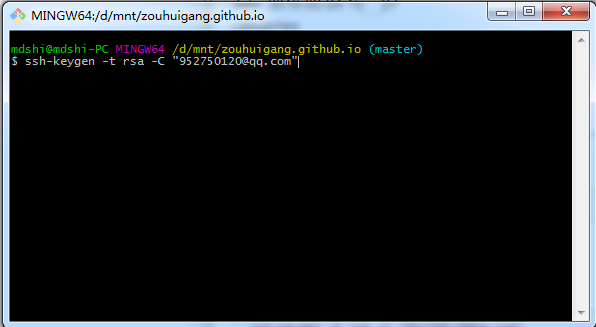
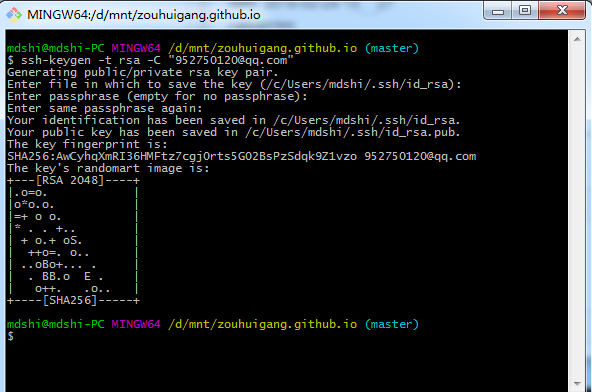
更新内容

Changed region(s): [[0.0, 0.0, 1.0, 1.0]]

diff --git a/content/git/push.md b/content/git/push.md
@@ -18,7 +18,7 @@ hugo的一些md参数
 ssh提交git，避免每次bat脚本运行都要输入用户名和密码
 
 
-1.生成ssh
+### 1.生成ssh
 
 	 ssh-keygen -t rsa -C "952750120@qq.com"
 
@@ -26,3 +26,19 @@ ssh提交git，避免每次bat脚本运行都要输入用户名和密码
 ![images](../images/20180224150632.png)
 
 一直按回车即可。
+
+可以看出，ssh被保存在C:\Users\mdshi\.ssh目录下。
+
+![images](../images/20180224153047.png)
+
+
+### 2.把在本地生成ssh公玥复制到github上
+
+id_rsa.pub
+
+
+把出现的内容包括ssh开头和已邮箱结尾的全部内容复制下来，打开github，登录进入自己的账户，点击自己账号的头像，点击setting，在打开的网页中点击屏幕左边的SSH and GPG keys，在出现的界面下，点击New SSH key,然后把之前赋值的内容复制进key下面的框内即可，title随便你取。
+
+
+![images](../images/20180224153927.png)
+
